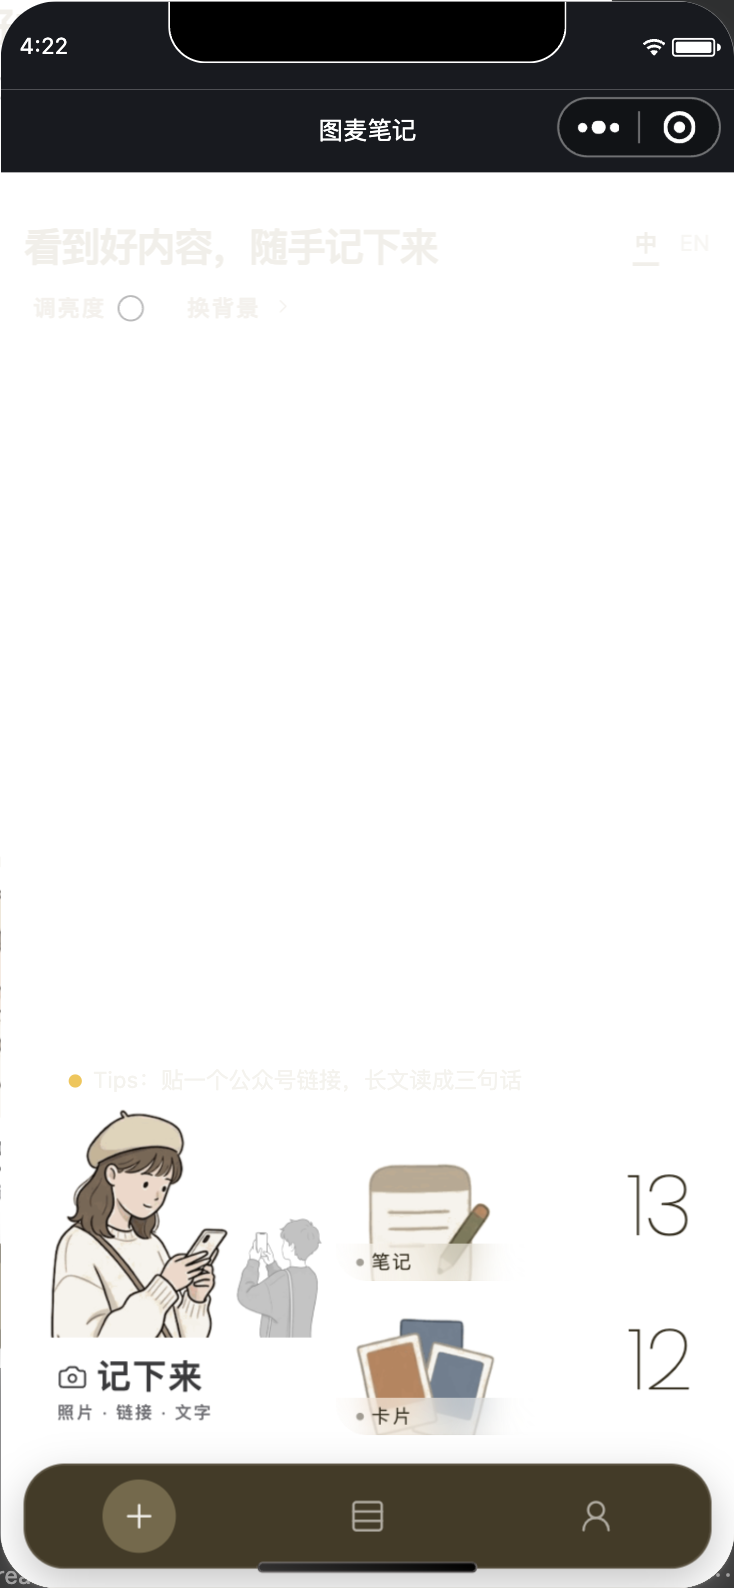
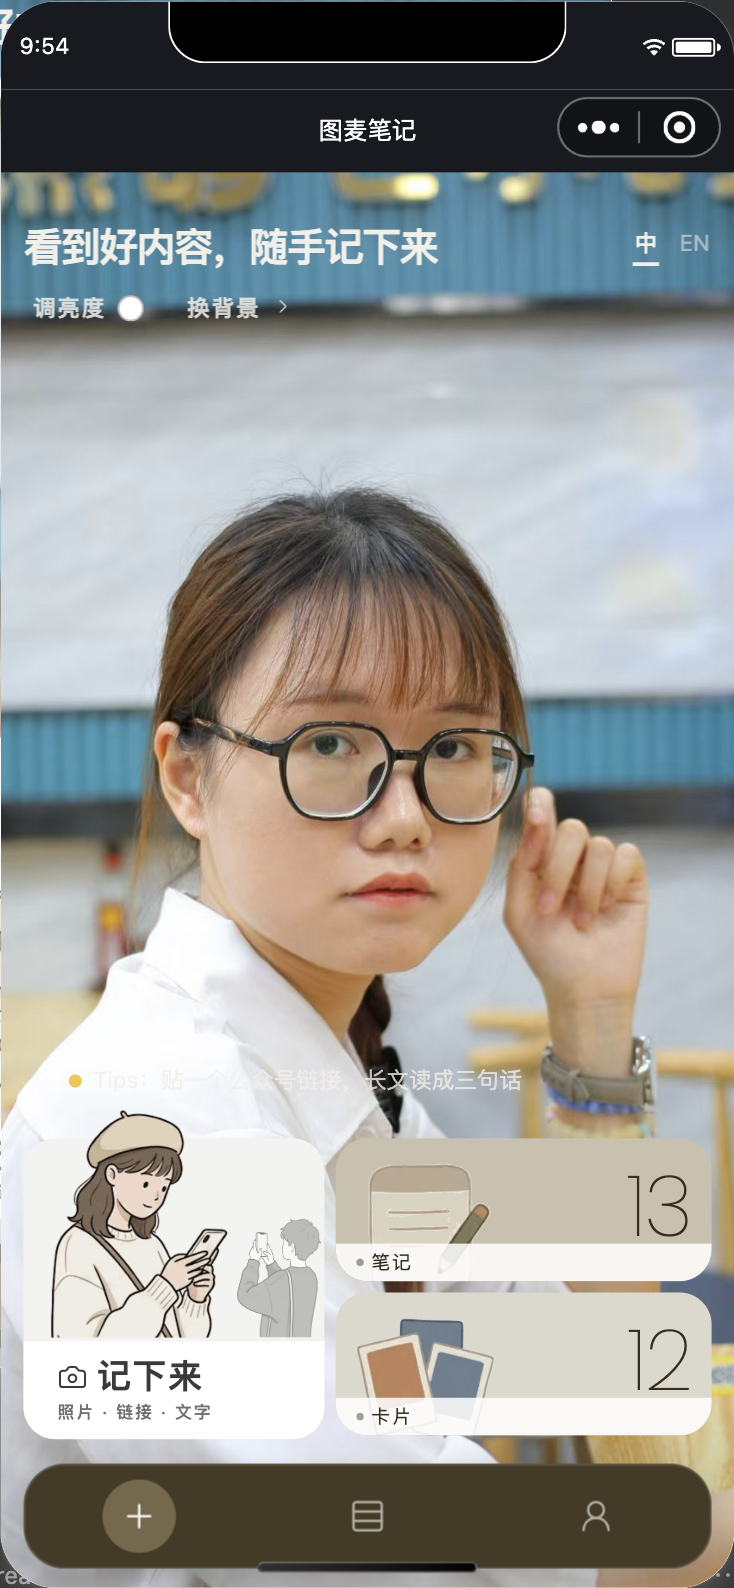
10-11 真机回电两处：撤掉首页三块那层玻璃，"过深"拆成两笔账等他拍
他的原话：「漫画人物边缘外部是透明底，没说连衣服也透明了，ICON 也是」。
R1 本来就是两句——「界面纯色底色部分改为半透明毛玻璃效果，按钮ICON不变」——我只办了前一句。
根因是量出来的：那四张插画自己就是大半透明（ic-person.png 实心像素只占 0.7%、半透 51.1%），
底下从实心换成 .30 白纱，照片就从画里穿过来（真机毛衣 rgb(165,133,123) 对效果图 rgb(241,238,227)）。
所以删掉 create.wxss 那两条 .container.has-bg 规则，三块回到 10-10 他拍过的实心面；
没动他那四张 PNG（压平到实心即可恢复玻璃，那要他点头）。
新增一条真跑判据：同一枚在铺图／不铺图两态的 background-color 计算值必须逐字相同、身上不许挂
backdrop-filter——静态读样式表看不见这一格。第一版我把它钉成"alpha 必须=1"，当场把 .blk-strip
判红（那一枚 10-10 那本就是 .85 白），是我过约束，已换成只钉本轮那一刀。

"毛玻璃过深"没动任何一层，只出账：同位 A/B 只拨「调亮度」那枚 opacity，默认档玻璃带中位 175、
罩层=0 是 204 ⇒ 29 灰阶来自他 10-10 拍的默认档，效果图那张底下没有这层压暗。四条路记在清单 §八.2。

号随之走到 2.1.3（`验-关于页版本号` 两处一致读到），cli preview 预览包 753.5KB／771,589B；
没 upload、没提审、没上现网。

diff --git a/docs/工具/探-玻璃深浅.js b/docs/工具/探-玻璃深浅.js
@@ -1,0 +1,63 @@
+// 10-11 09:2x 站长报「毛玻璃明显过深，与效果图不一致」——这一把不判对错，只把"深"拆成两笔账：
+//   一笔是**他 10-10 拍的「调亮度」默认档**（半月＝罩层 opacity .5），一笔是**白纱本身**（他拍的 .30）。
+// 做法：同一屏、同一张包内形象图，只把 `dimV` 从默认那档换到"满月"（罩层＝0，等于没有压暗），各拍一张。
+// 跑法：docs/工具/跑尺子.sh 9431 探-玻璃深浅
+// 数怎么读：`量-玻璃深浅.py`（同一份脚本里也带了简版读数，跑完直接打印）。
+const automator = require('miniprogram-automator')
+const path = require('path')
+const fs = require('fs')
+const sleep = (ms) => new Promise((r) => setTimeout(r, ms))
+const OUT = path.resolve(__dirname, '../design/10-11毛玻璃/实测')
+const BG = '/assets/home-bg-portrait.jpg'
+
+;(async () => {
+  let mp
+  for (let i = 0; i < 6 && !mp; i++) {
+    try { mp = await automator.connect({ wsEndpoint: 'ws://localhost:9431' }) } catch (e) { await sleep(12000) }
+  }
+  if (!mp) throw new Error('连不上 9431，先跑 cli auto')
+  const geo = () => mp.evaluate(() => new Promise((resolve) => {
+    const i = wx.getWindowInfo()
+    const q = wx.createSelectorQuery()
+    q.select('.sheet').boundingClientRect()
+    q.select('.head').boundingClientRect()
+    q.exec((r) => resolve({ win: { w: i.windowWidth, h: i.windowHeight }, box: r }))
+  }))
+  const rows = []
+  await mp.switchTab('/pages/index/index')
+  await sleep(8000)
+  const page = await mp.currentPage()
+  // ⚠ 第一版这一把是**没牙的**：它只 setData({dimV:0})，而罩子吃的是 `dimScrim` 那枚内联透明度串
+  //   （每次进页由 `app.bgSkin()` 从本机存储读进来），`dimV` 只是给那枚点看的。两张图一模一样、
+  //   差值报 0，看着像"这一档不影响"，其实是我没拨到东西。所以这里直接给 `dimScrim`，
+  //   值就照 `palette.dimScrimStyle()` 那一支产出的串，并把节点上的 style 读回来自证它落上了。
+  const TIERS = [['半月（默认档）', 'opacity:0.5'], ['满月（罩层=0）', 'opacity:0']]
+  for (const [档, style] of TIERS) {
+    await page.setData({ bgSrc: BG, dimScrim: style })
+    await sleep(3500)
+    // 自证这一枚 data 真落上了（`page.data()` 读的是页面自己的 data，不是我以为的值）。
+    // ⚠ 上一版这里用的是 `mp.evaluate` + `q.select('.head-scrim').fields(...)`，跑起来报
+    //   "An object could not be cloned"——automator 把那枚节点对象往回传时序列化不掉，
+    //   读 data 就够了，不必去摸节点。
+    const back = String(await page.data('dimScrim'))
+    const g = await geo()
+    const scale = g.win.w / 750
+    const sheet = g.box[0], head = g.box[1]
+    if (!sheet) throw new Error('摸不到 .sheet，这两张不能用')
+    rows.push({
+      档: 档, dimScrim: style, scrimNode: back,
+      file: `深浅-${style === 'opacity:0' ? '0' : '1'}.png`,
+      win: g.win,
+      // 玻璃带：卡顶往下 158rpx（白纱那一段），取卡左那条无字竖带之外的整宽
+      glass: [sheet.left, sheet.top, sheet.width, Math.min(158 * scale, sheet.height)],
+      // 罩层带：头部里、卡顶以上那一条（只有压暗、没有白纱）——用它证明"这一档到底压了多少"
+      scrim: [head.left + 8 * scale, Math.max(0, sheet.top - 120 * scale), head.width, 100 * scale],
+    })
+    await mp.screenshot({ path: `${OUT}/深浅-${style === 'opacity:0' ? '0' : '1'}.png` })
+    console.log(`${档}｜写进去=${style}｜页面 data 读回＝${back}｜卡顶视口 y=${sheet.top.toFixed(1)}px`)
+    if (back !== style) throw new Error(`data 没落上（写 ${style}、读回 ${back}）＝这一把没牙，不出数`)
+  }
+  fs.writeFileSync(`${OUT}/深浅.json`, JSON.stringify(rows, null, 1))
+  console.log(`存 ${OUT}/深浅.json（两张：深浅-1.png＝默认档、深浅-0.png＝罩层 0）`)
+  await mp.close()
+})().catch((e) => { console.error('!! 探针挂了', e && (e.stack || e.message)); process.exit(1) })

diff --git a/docs/工具/验-第一屏三块-真跑.js b/docs/工具/验-第一屏三块-真跑.js
@@ -262,6 +262,41 @@ async function main() {
   await page.callMethod('collapse')
   await sleep(1500)
 
+  /* ---------- 7.5 铺图态与不铺图态，这五枚必须**一模一样**（10-11 09:2x 站长真机打回那一格） ----------
+     他的原话：「漫画人物边缘外部是透明底，没说连衣服也透明了，ICON 也是」＋R1 后半句「按钮ICON不变」。
+     为什么单独立一条：那四张插画自己就是大半透明（`ic-person.png` 实心像素只占 0.7%），
+     底下只要半透，照片就从画里穿过来——静态读样式表看不见这件事（纱是加在容器上的），只有读渲染后的计算值才有牙。
+     ⚠ 这一条的写法换过一次：第一版钉"`background-color` 的 alpha 必须＝1"，当场把 `.blk-strip` 判红——
+       那一枚 10-10 那版本就是 `rgba(255,255,255,.85)`，**是我这条判据过约束，不是实现红**。
+       现在钉的是"本轮那两条 `.container.has-bg` 撤干净了没有"：同一枚在**铺图／不铺图两态**的渲染值必须逐字相同，
+       再加身上不许挂 `backdrop-filter`。这样既不动 10-10 已有的数，也钉得住"别再把纱加回来"。 */
+  const BLKS = ['.blk-person', '.blk-stat-notes', '.blk-stat-cards', '.blk-jot', '.blk-strip']
+  const readBlks = async () => {
+    const out = {}
+    for (const sel of BLKS) {
+      const node = await page.$(sel)
+      out[sel] = node ? String(await node.style('background-color')) : '(摸不到)'
+    }
+    return out
+  }
+  await page.setData({ bgSrc: '' })
+  await sleep(2200)
+  const off = await readBlks()
+  await page.setData({ bgSrc: '/assets/home-bg-portrait.jpg' })
+  await sleep(2600)
+  const on = await readBlks()
+  const onSrc = String(((await page.data()) || {}).bgSrc || '')
+  ok('两态对比是在"铺图"那一态收尾的（`bgSrc` 不在，下面那五条"相同"全是空转）',
+    /home-bg-portrait/.test(onSrc), onSrc || '(空)')
+  for (const sel of BLKS) {
+    ok(`${sel} 铺图态＝不铺图态（本轮那一条 .container.has-bg 已撤干净）`,
+      off[sel] === on[sel] && on[sel] !== '(摸不到)', `不铺图 ${off[sel]}｜铺图 ${on[sel]}`)
+    const node = await page.$(sel)
+    const bf = node ? String((await node.style('backdrop-filter')) || (await node.style('-webkit-backdrop-filter')) || 'none') : '(摸不到)'
+    ok(`${sel} 身上不许挂 backdrop-filter（要恢复这一格，得先把那四张插画压平——那是他那一格的决定）`,
+      !!node && /none|^\s*$/.test(bf), bf)
+  }
+
   /* ---------- 8. 整屏截图（对效果图用） ---------- */
   ok('这一路走下来页面没有报过错（报了不一定看得出现在这一屏）',
     pageErrs.length === 0, pageErrs.length ? safeJson(pageErrs[0]).slice(0, 200) : '')

diff --git a/miniprogram/utils/appInfo.js b/miniprogram/utils/appInfo.js
@@ -7,7 +7,7 @@
    1.x 那一支要出补丁就在 master 上改回 1.9.x，别把这一格 merge 过去。
    ⚠ 别在这里写"现网线上是几点几"——那是后台的事实，只有登录后台才读得到，写在代码里
    第二天就变成假话（这一格曾经把 1.9.26 当成线上版留了三天）。 */
-const VERSION = '2.1.2'
+const VERSION = '2.1.3'
 
 // 官网地址以站点自己的 canonical 为准（curl 读到的 <link rel=canonical> 是不带 www 的那个）。
 // 只能复制、点不开：web-view 组件个人主体用不了，小程序里打不开外部网页。

diff --git a/docs/工具/量-玻璃深浅.py b/docs/工具/量-玻璃深浅.py
@@ -1,0 +1,60 @@
+#!/usr/bin/env python3
+# 读 `探-玻璃深浅.js` 那两张图，把站长那句「毛玻璃明显过深」拆成两笔可核对的账：
+#   ① 罩层那一档压掉多少（他 10-10 拍的默认档＝半月 .5）
+#   ② 白纱本身抬/压多少（他拍的 .30，这一格不许我动）
+# 跑法：python3 docs/工具/量-玻璃深浅.py
+# ⚠ 这一把**不是判据**，没有门槛、不判红——它只出数。判据是 §三那八条，深浅这一格他还没拍过数。
+import json
+import os
+import sys
+from PIL import Image
+import numpy as np
+
+OUT = os.path.join(os.path.dirname(os.path.abspath(__file__)), '../design/10-11毛玻璃/实测')
+
+
+def patch(im, rect, win):
+    """rect 是**视口 px**；截图拍的是整块屏（顶上还有状态栏＋导航条），所以要先换比例、再补顶上那截。"""
+    scale = im.width / win['w']
+    chrome = im.height / scale - win['h']
+    x, y, w, h = rect
+    a = np.asarray(im.convert('L'), dtype=float)
+    x0, y0 = max(0, int(round(x * scale))), max(0, int(round((y + chrome) * scale)))
+    x1, y1 = min(a.shape[1], x0 + int(round(w * scale))), min(a.shape[0], y0 + int(round(h * scale)))
+    if x1 - x0 < 8 or y1 - y0 < 3:
+        raise SystemExit(f'!! 取样框只有 {x1 - x0}×{y1 - y0} 像素，取不到统计量（坐标或视口数不对）')
+    return a[y0:y1, x0:x1]
+
+
+def main():
+    rows = json.load(open(f'{OUT}/深浅.json'))
+    print(f'  {len(rows)} 趟；换算用 windowWidth／windowHeight（截图顶上那截＝状态栏＋导航条）')
+    got = {}
+    for r in rows:
+        p = f'{OUT}/{r["file"]}'
+        if not os.path.exists(p):
+            print(f'  !! 缺 {p}，这一档没数')
+            continue
+        im = Image.open(p)
+        g, s = patch(im, r['glass'], r['win']), patch(im, r['scrim'], r['win'])
+        if np.percentile(g, 5) >= 245 or g.mean() >= 250:
+            raise SystemExit(f'!! {p} 玻璃那一块整片是纯白＝这一帧根本没画图（10-11 P0 那一种），数不作数')
+        key = '0' if r['file'].endswith('-0.png') else '1'
+        if key not in got:
+            got[key] = (float(np.median(g)), float(np.median(s)), r['档'])
+        print(f'  {r["档"]}（data 读回＝{r.get("scrimNode")}）：'
+              f'玻璃带中位 {np.median(g):5.1f}　卡顶以上那条（只有罩层）中位 {np.median(s):5.1f}')
+    if '1' in got and '0' in got:
+        if got['1'] == got['0']:
+            raise SystemExit('!! 两趟四位数一模一样＝这一把没牙（探针没真的拨到那一层），数不报')
+        d_g = got['0'][0] - got['1'][0]
+        d_s = got['0'][1] - got['1'][1]
+        print(f'\n  ⇒ 默认那一档 vs 罩层＝0，同一位置同一张图，玻璃带差 **{d_g:.0f}** 灰阶'
+              f'（默认 {got["1"][0]:.0f} 比满月 {got["0"][0]:.0f} {"暗" if d_g > 0 else "亮"}）——唯一的变量就是那枚 opacity')
+        print(f'  ⇒ 同一条罩层带（没有白纱）差 **{d_s:.0f}** 灰阶＝那一档本身压掉的量')
+        print(f'  ⇒ 满月那一趟玻璃带是 {got["0"][0]:.0f}＝"白纱 .30 压在这张原图上"落成的浅底——那一格是他拍的数，我没动、也不该由我动')
+    print('\n  口径：数＝取样框内 8 位灰阶**中位数**（躲字、躲发丝线）；两张都是模拟器 390×753 视口。')
+    print('  ⚠ 这一把证不了"深不深"，只证"深多少、来自哪一层"。要改哪一层，是他那一格的决定。')
+
+
+main()

diff --git a/docs/工具/生成-功能清单全量.py b/docs/工具/生成-功能清单全量.py
@@ -250,8 +250,11 @@ VERSIONS = [
              "站长原话「左上角的人，透明底侵入主图，列表左上角的人都去掉，维持只有首页有」；markup、样式、data 三头撤净，utils/person.js 本身留给首页",
              "未核", "反向钉：列表页 markup/样式/data 里再出现 .ix-person／personSrc 就红（`验-第一屏三块`）"),
             ("全局", "纯色底改半透明毛玻璃（白纱 α=.30）", "新增(10-11)",
-             "app.wxss 一组 --glass-* 令牌：veil .30／blur(23px) saturate(1.8)／hairline .55／井底 .20／白条 .38；只在铺了形象图那一态（.container.has-bg）生效",
+             "app.wxss 一组 --glass-* 令牌：veil .30／blur(23px) saturate(1.8)／hairline .55／井底 .20（白条 .38 那一档 10-11 09:2x 起没人吃，见下面「第一屏三块」那一行）；只在铺了形象图那一态（.container.has-bg）生效",
              "未核", "α=.30 是站长在校准条上点的那一档，全站唯一出口由 `验-玻璃令牌齐不齐` 钉"),
+            ("首页", "第一屏那三块的玻璃已撤，退回实心面", "撤掉(10-11 真机回电)",
+             "站长原话「漫画人物边缘外部是透明底，没说连衣服也透明了，ICON 也是」＋R1 后半句「按钮ICON不变」；四张插画自己就是大半透明（ic-person 实心像素只占 0.7%），底下换成 .30 白纱就直接透出照片，实测毛衣 rgb(165,133,123) vs 效果图 rgb(241,238,227)",
+             "未核", "撤的是我这一轮加的，三块回到 10-10 那版实心面；要恢复这一格只欠「把四张插画压平」那一个决定"),
             ("录入", "面板外框与内框合成一张玻璃面", "改版(10-11)",
              "外框＝白纱＋模糊；内框底色与描边转透明，控件直接落在玻璃上；井（输入框／右滑条／两枚小圆）＝.20 白＋.55 白边；快门橙圆、两枚小圆里的图形、粘贴图形、三枚标签字一行没碰",
              "未核", "`.mini-c` 这一枚类名 10-11 修过一次静默不生效（写成 `.mini .c` 命中零节点）"),
@@ -263,7 +266,7 @@ VERSIONS = [
              "未核", "他抓过的「中间镂空」这一格由 `验-我的页改版-真跑` 量图底对行底"),
             ("弹窗", "三枚居中弹窗改成半透明", "新增(10-11)",
              "名片信息／私密密码／我的邮箱各挂 glass-dialog；笔记卡片页那第四处不做——该页根本不铺形象图，模糊没有对象",
-             "未核", "依据与反向钉都在 `验-名片弹窗两页同源`；白纱压暗遮罩后的对比度待量"),
+             "未核", "依据与反向钉都在 `验-名片弹窗两页同源`；白纱压暗遮罩后的对比度 10-11 已量（拍甲后六档 5.49／5.17／6.16 全过 AA 4.5）"),
             ("详情", "笔记详情浮窗保持实心", "不做(10-11)",
              "站长原话「笔记详情页不用毛玻璃，因为笔记内文字较多要清晰，避免背景干扰」；选卡片模板那一屏与它共用一张皮，他拍「甲」＝同样不做",
              "未核", "`.float-sheet` 里一条玻璃声明都没有"),

diff --git a/docs/规格-毛玻璃这一层皮.md b/docs/规格-毛玻璃这一层皮.md
@@ -13,7 +13,7 @@
 | `--glass-bf` | `blur(23px) saturate(1.8)` | 上面那些面的 `backdrop-filter` | 效果图第 **59** 行那档（`--g-blur: blur(46px) saturate(1.8)`），按"图上 1px＝1rpx≈0.52 真机像素"换算（46→23）——**换算这一步是我做的，他没逐字点过数** |
 | `--glass-hair` | `rgba(255,255,255,0.55)` | 玻璃面的白描边（`inset 0 0 0 2rpx`）与井的边 | 效果图，同上 |
 | `--glass-fill` | `rgba(255,255,255,0.20)` | 录入面板里那三口"井"的底（输入框／右滑条／两枚小圆） | 效果图，同上 |
-| `--glass-jot` | `rgba(255,255,255,0.38)` | 白条那一档（`.blk-jot`／`.blk-strip`），配 `blur(10px) saturate(1.6)` | 效果图，同上 |
+| `--glass-jot` | `rgba(255,255,255,0.38)` | **10-11 09:2x 起没有消费者**（首页那两条白条的玻璃随三块一起撤了，见 §4）。留着不删：恢复那一格只欠"把四张插画压平"那一个决定 | 效果图，同上 |
 | `--glass-fade-card`／`--glass-fade-page` | 本套壁纸的 `--bg-card`／`--bg-page` @.62 | 渐退那一段的中间色标 | 效果图第 **229／332** 行那两枚色标（**必须跟着壁纸走**，写死白色在天青那套会露馅） |
 
 五块皮肤（`page` ＋ 四套 `.theme-*`，其中雨雾那套的类名是 `.theme-blue`）**各存一份镜像值**，由 `验-玻璃令牌齐不齐` 逐枚钉：少一枚、或某一套里被改成别的色，当场红（反向刀 **10 把**，10/10 有牙）。
@@ -51,8 +51,8 @@
 | `.card` 内框 | **转透明**（控件直接落在玻璃上＝他那句"集体变半透明…沉浸式"） |
 | `.field`／`.sld` 两口井 | `--glass-fill` ＋ `--glass-hair` 边 |
 | `.mini-c` 两枚小圆 | `--glass-fill`（它本来就没有边，所以只换底） |
-| `.blk-person`／`.blk-stat-notes`／`.blk-stat-cards` 第一屏那三块 | 白纱＋`--glass-bf`＋`inset 0 0 0 2rpx var(--glass-hair)` 那圈白内环 |
-| `.blk-jot`／`.blk-strip` 白条 | `--glass-jot`＋`blur(10px) saturate(1.6)`（比大面轻一档） |
+| `.blk-person`／`.blk-stat-notes`／`.blk-stat-cards` 第一屏那三块 | **10-11 09:2x 真机回电后已撤玻璃**，退回 10-10 那版实心面（`--eb-person`／`--eb-notes`／`--eb-cards`）。原因：那四张插画自己就是大半透明（`ic-person.png` 实心像素只占 0.7%），底下一旦半透，照片就从画里穿过来 |
+| `.blk-jot`／`.blk-strip` 白条 | 同上，**一起撤了**，仍是 `#FFFFFF` 实心（`--glass-jot` 那一档因此空着，注释里写明留着等"压平插画"那一个决定） |
 | `.hint-bubble` 报错气泡 | `--cp-ink-78`＝`rgba(35,37,44,.78)` **墨面**＋`--glass-bf`（他 10-11 拍「不用」＝不换白纱，见 §6.4） |
 
 **不碰的**：快门那枚橙圆、两枚小圆里的图形、粘贴图形、三枚标签的字。
@@ -64,7 +64,7 @@
 这三枚里的**说明字**（`.ci-hint`／`.pwd-scene`／`.me-email-scene`）在 `has-bg` 那两枚闸以内提到整档墨，
 这是他那句「甲」落的两行样式（§6.3）；**闸外（没铺图那一态）和 `pages/share` 那屏的淡墨一个字没动**。
 
-## 4. 明确不做玻璃的四处（附依据）
+## 4. 明确不做玻璃的几处（附依据）
 
 | 哪里 | 依据 |
 |---|---|
@@ -72,6 +72,7 @@
 | 选卡片模板那一屏 `.tpl-sheet` | 与详情共用一张皮；他拍**甲**＝同样不做（X3） |
 | 底栏那三枚 tab | 他原话「底部的三个tab，我没有需求提到它」（X2） |
 | 笔记卡片页（`pages/share`）那第二处 `.ci-card` | 那一页从头到尾不铺形象图 ⇒ 玻璃的闸永远合不上、糊了没有对象（同 §8.85 口径）。**反向钉**：哪天它开始铺图，`验-名片弹窗两页同源` 红，逼人来重拍 |
+| 首页第一屏那三块与两条白条 | 他 10-11 真机回电原话「漫画人物边缘外部是透明底，没说连衣服也透明了，ICON 也是」＋R1 后半句「按钮ICON不变」。四张插画自己就是大半透明，底下半透＝照片穿画而过。**尺子**：`验-第一屏三块-真跑` 第 7.5 段——同一枚在铺图／不铺图两态的 `background-color` 计算值必须逐字相同，且身上不许挂 `backdrop-filter` |
 
 ## 5. 退化行为（说准，别写假话）
 
@@ -94,6 +95,14 @@
 
 **"其他事情，下一轮再说"** 覆盖这三格，本轮都没做：① 判据 1 那句"逐像素不变"的对位比（要拿回滚点 `f6075d3` 另开一棵树再截一趟）；
 ② 两台 iPhone 真机那两张 blur 照片；③ 软著那条线。
+
+### 6.5 真机第一趟回电后新长出来的一格（10-11 09:2x，等他拍，我一层都没动）
+
+「毛玻璃明显过深」这一句我拆成了可核对的两笔（`探-玻璃深浅.js`＋`量-玻璃深浅.py`，同位 A/B 只拨那一枚 opacity）：
+默认档玻璃带中位 **175**、罩层＝0 那一档 **204** ⇒ 其中 **29 灰阶来自他 10-10 拍的默认亮度档（压暗）**，
+剩下那 204 才是"白纱 .30 压在这张原图上"落成的浅底；那张效果图底下**没有这层压暗**，所以同一支 .30 在图上浅得多。
+四条路：甲＝玻璃那一段不吃压暗（代价＝542／739 那两条交界可能重新出台阶，撞 R6）／乙＝默认亮度档改"满月"（动他 10-10 那一格）／
+丙＝抬 α（动他拍的"全站一个值"，且 §6.1 刚拍过"α 不动"）／丁＝等两台手机的照片再定。
 
 ## 7. 谁在钉这一层
 

diff --git a/docs/需求清单-10-11毛玻璃.md b/docs/需求清单-10-11毛玻璃.md
@@ -224,3 +224,50 @@
 **这一轮我自己没认的一条**：审查说「对照组就是那条纯白带，所以它证明不了同一屏」。
 它说的"纯白带"是**上一批那两张废图**——那两张确实作废；但对照组这道闸本身是对的（它这次报 1.000 的同时，
 先验那一步在废图上会直接拒绝出数），所以我改的是"先验有画面"，没有把对照组换掉。
+
+## 八、10-11 09:2x 真机第一趟回电：两处，一处是真 BUG 我已撤，一处拆成数等他拍
+
+**他的原话（逐字）**：「默认首页的漫画人物和右侧的icon图案，透明设置错误，侵入了主图，与效果图不一致。
+我只是要求，漫画人物边缘外部是透明底，没说连衣服也透明了，ICON也是。我不是说任何改动都要对照需求原文吗？你怎么又乱来，
+还是这种毛玻璃怎么与你给我的效果图不一样，毛玻璃很明显过深了。赶紧修正。」
+
+### 8.1 首页那三块（左块人物＋右两枚计数＋两条白条）＝真 BUG，玻璃已撤
+
+**我错在哪，一条原文就够**：R1 是两句——「界面纯色底色部分改为半透明毛玻璃效果，**按钮ICON不变**」。
+我只办了前一句，后一句我只守到"不给图标自己挂纱"，**漏了"纱会把图标自己变透"这一层**。
+
+为什么静态尺子一路没红：那四张插画**自己就是大半透明的**（`python3` 现读 alpha 直方图，数在下面），
+底下是实心的时候看不出来——那就是它们本来的画法；底下换成 .30 白纱压在照片上，照片直接从画里穿过来。
+〔数〕`ic-person.png` 实心像素 **0.7%**／半透 51.1%／全透 48.3%；`ic-person-alt` 1.6%／60.2%；
+`ic-stat-notes` 1.0%／57.6%；`ic-stat-cards` 10.4%／44.1%。
+〔数·真机 vs 效果图〕同一处毛衣：真机 `rgb(165,133,123)`（粉紫＝背后那张演唱会的蓝与棕穿过来），效果图 `rgb(241,238,227)`（米白）。
+
+**处置**：`create.wxss` 里那两条 `.container.has-bg` 规则（五枚选择器）**删掉**，三块回到 10-10 他拍过的那版实心面
+（`--eb-person`／`--eb-notes`／`--eb-cards`／白条 `#FFFFFF`）。撤的是我这一轮加的东西，不是撤他已有的。
+`--glass-jot` 那一档因此空着没消费者，注释里写清了为什么留着不删。
+**新增一条真跑判据**（`验-第一屏三块-真跑` 第 7.5 段）：同一枚在**铺图／不铺图两态**从渲染后的计算值读 `background-color` 必须逐字相同（＝本轮那两条 `.container.has-bg` 撤干净了），
+再加身上不许挂 `backdrop-filter`。⚠ 这一条第一版我钉的是"alpha 必须＝1"，当场把 `.blk-strip` 判红——那一枚 10-10 那版本就是 `rgba(255,255,255,.85)`，
+**是我这条判据过约束、不是实现红**，所以换成"两态必须相同"这种只钉本轮那一刀的写法。
+**我没做的一件事**：没有动他那四张 PNG。要恢复这一格的玻璃，只欠"把插画压平到实心（轮廓外仍透明）"那一个决定，**那是他的资产，他点头我才动**。
+
+### 8.2「毛玻璃过深」＝三样叠出来的，动哪一层归他，我一层都没动
+
+同一屏、同一张包内形象图，只拨「调亮度」那一枚 opacity 做同位 A/B（`探-玻璃深浅.js`＋`量-玻璃深浅.py`，
+图 `深浅-1.png`／`深浅-0.png`，data 读回＝`opacity:0.5` vs `opacity:0`）：
+
+| 哪一层 | 玻璃带中位亮度 | 这一层自己吃掉多少 |
+|---|---|---|
+| 默认档（半月 .5 罩层＋我加的延段＋白纱 .30） | **175** | 罩层这一档本身压掉 **32** 灰阶 |
+| 罩层＝0（满月）＋白纱 .30 | **204** | 两档之间差 **29** 灰阶＝"深"里属于压暗的那一笔 |
+
+⇒ 他看到的"深"＝**他 10-10 拍的默认亮度档（压暗）29 阶 ＋ 这张照片本身比效果图暗 ＋ 白纱 .30 落成 204 那一档浅灰**。
+那张效果图底下**没有这层压暗**，所以同一支 .30 在图上就浅得多——这是我抄图时没核的一格，不是他记错了。
+四条路（我一条都不选）：**甲**＝玻璃那一段不吃压暗（罩层与延段在卡顶那 238rpx 内收住）⇒ 浅回 204 那一档，代价是 542／739 那两条交界可能重新出台阶（R6 那一刀）；
+**乙**＝默认亮度档从"半月"改"满月"⇒ 全站头部一起亮 29 阶，动的是他 10-10 拍的那一格；
+**丙**＝抬白纱 α（动他拍的"全站一个值"，且这一格 §五 已经拍过"不加 `@supports`、α 不动"）；
+**丁**＝就这样，等两台手机的照片再定。
+
+### 8.3 这一趟的包
+
+`VERSION` 从 2.1.2 抬到 **2.1.3**（照他"同号叠第二层分不清扫的是哪一版"那条规矩），`cli preview` 出预览包
+**753.5 KB／771,589 B**，预览码 `/Users/zlfmac/Documents/TuMaiBiJi/docs/工具/出包-2.1.3-预览码.png`。没 `cli upload`、没提审、没上现网。
